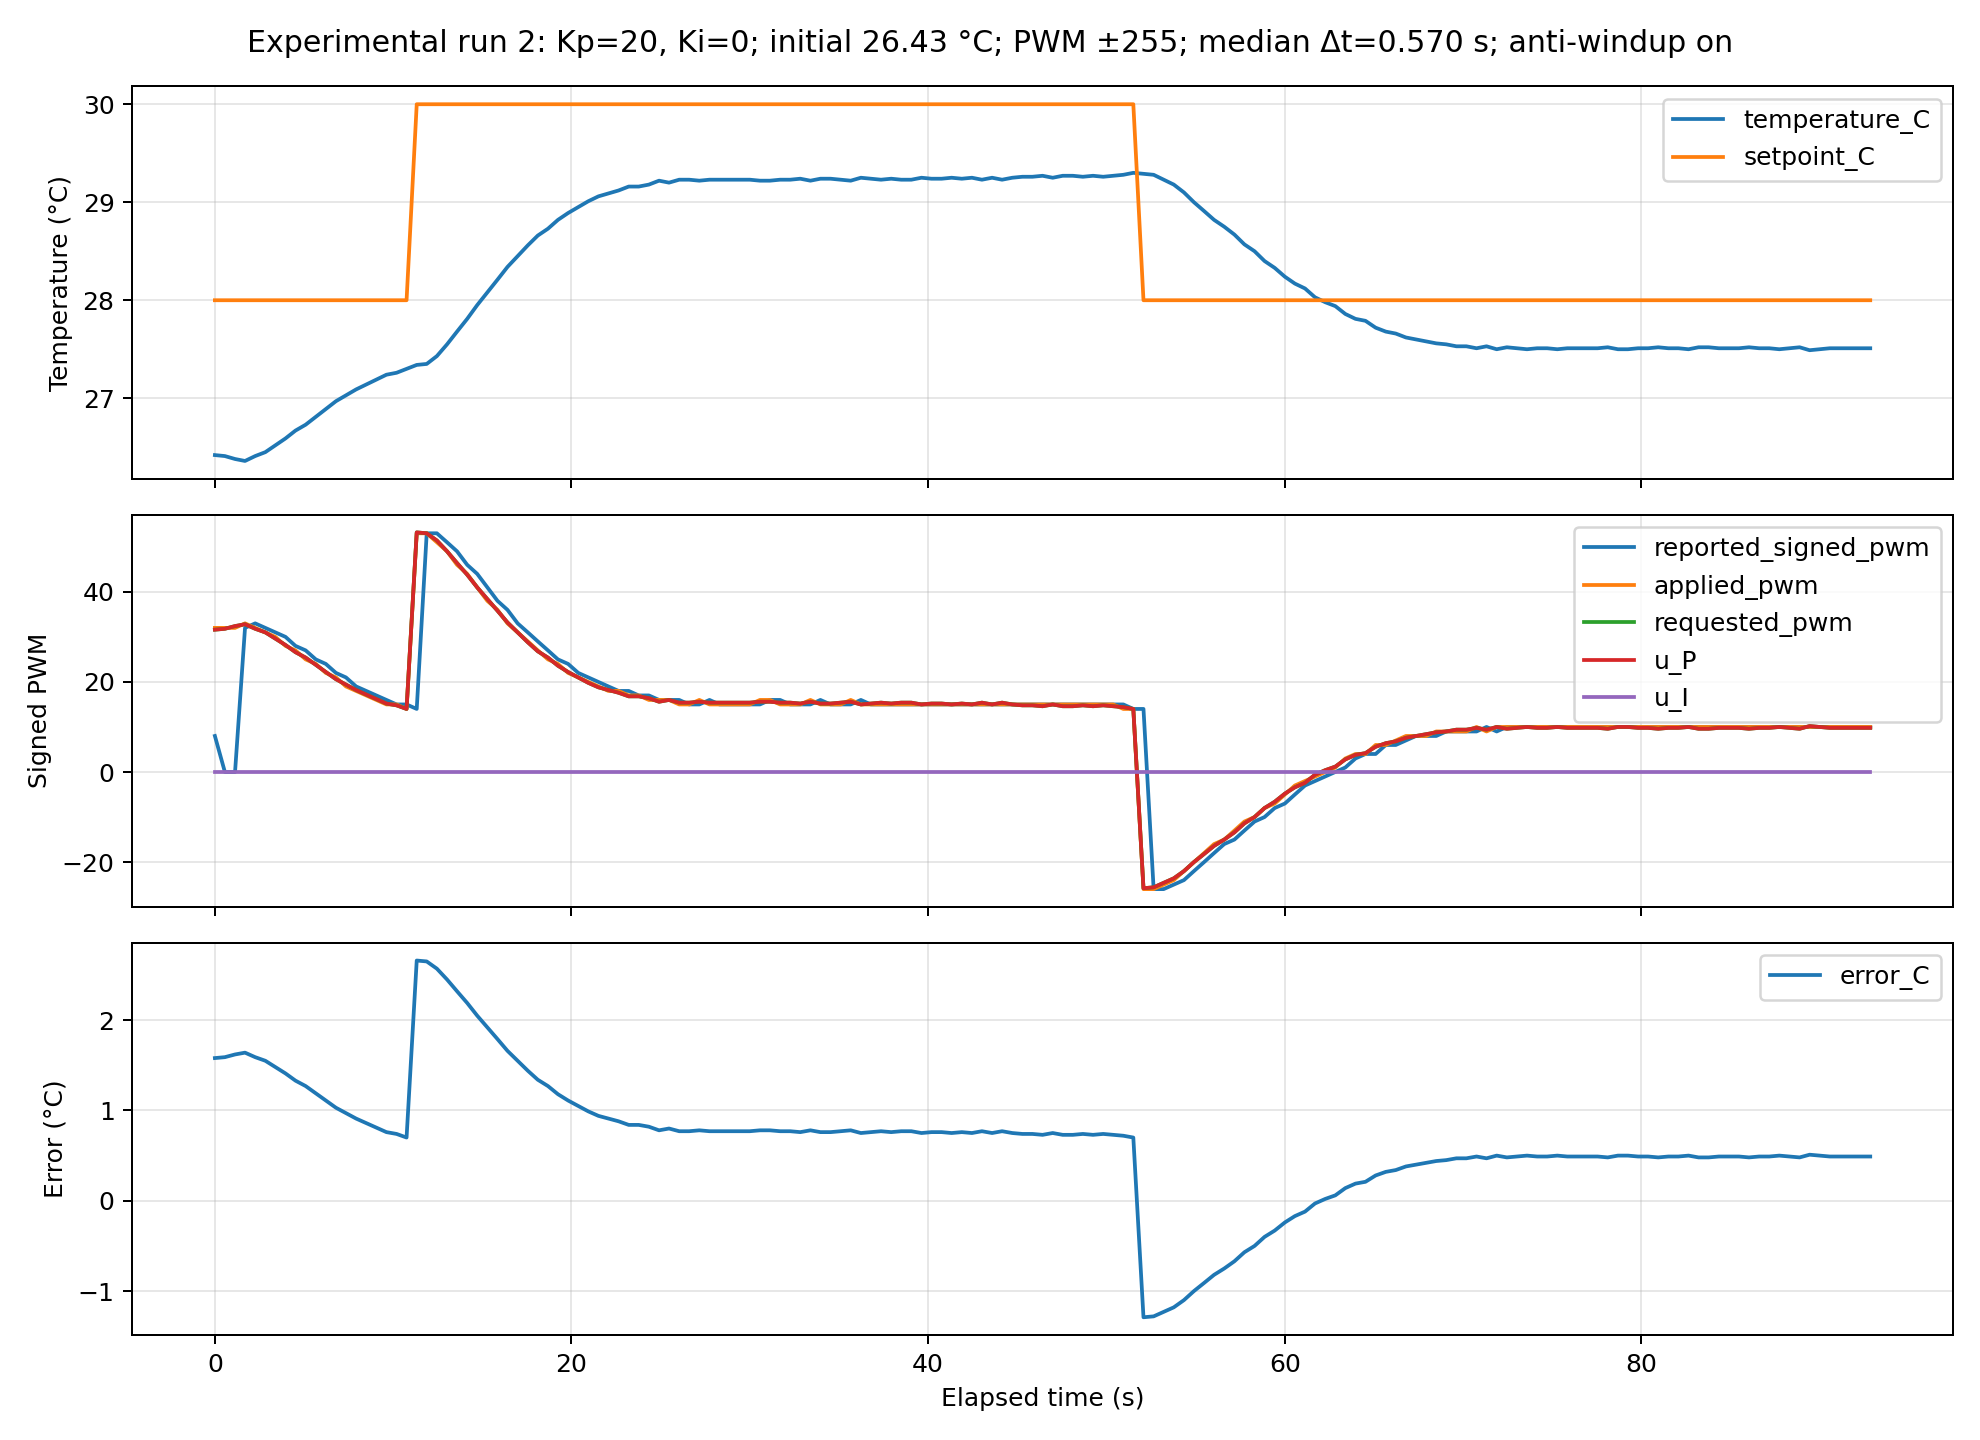
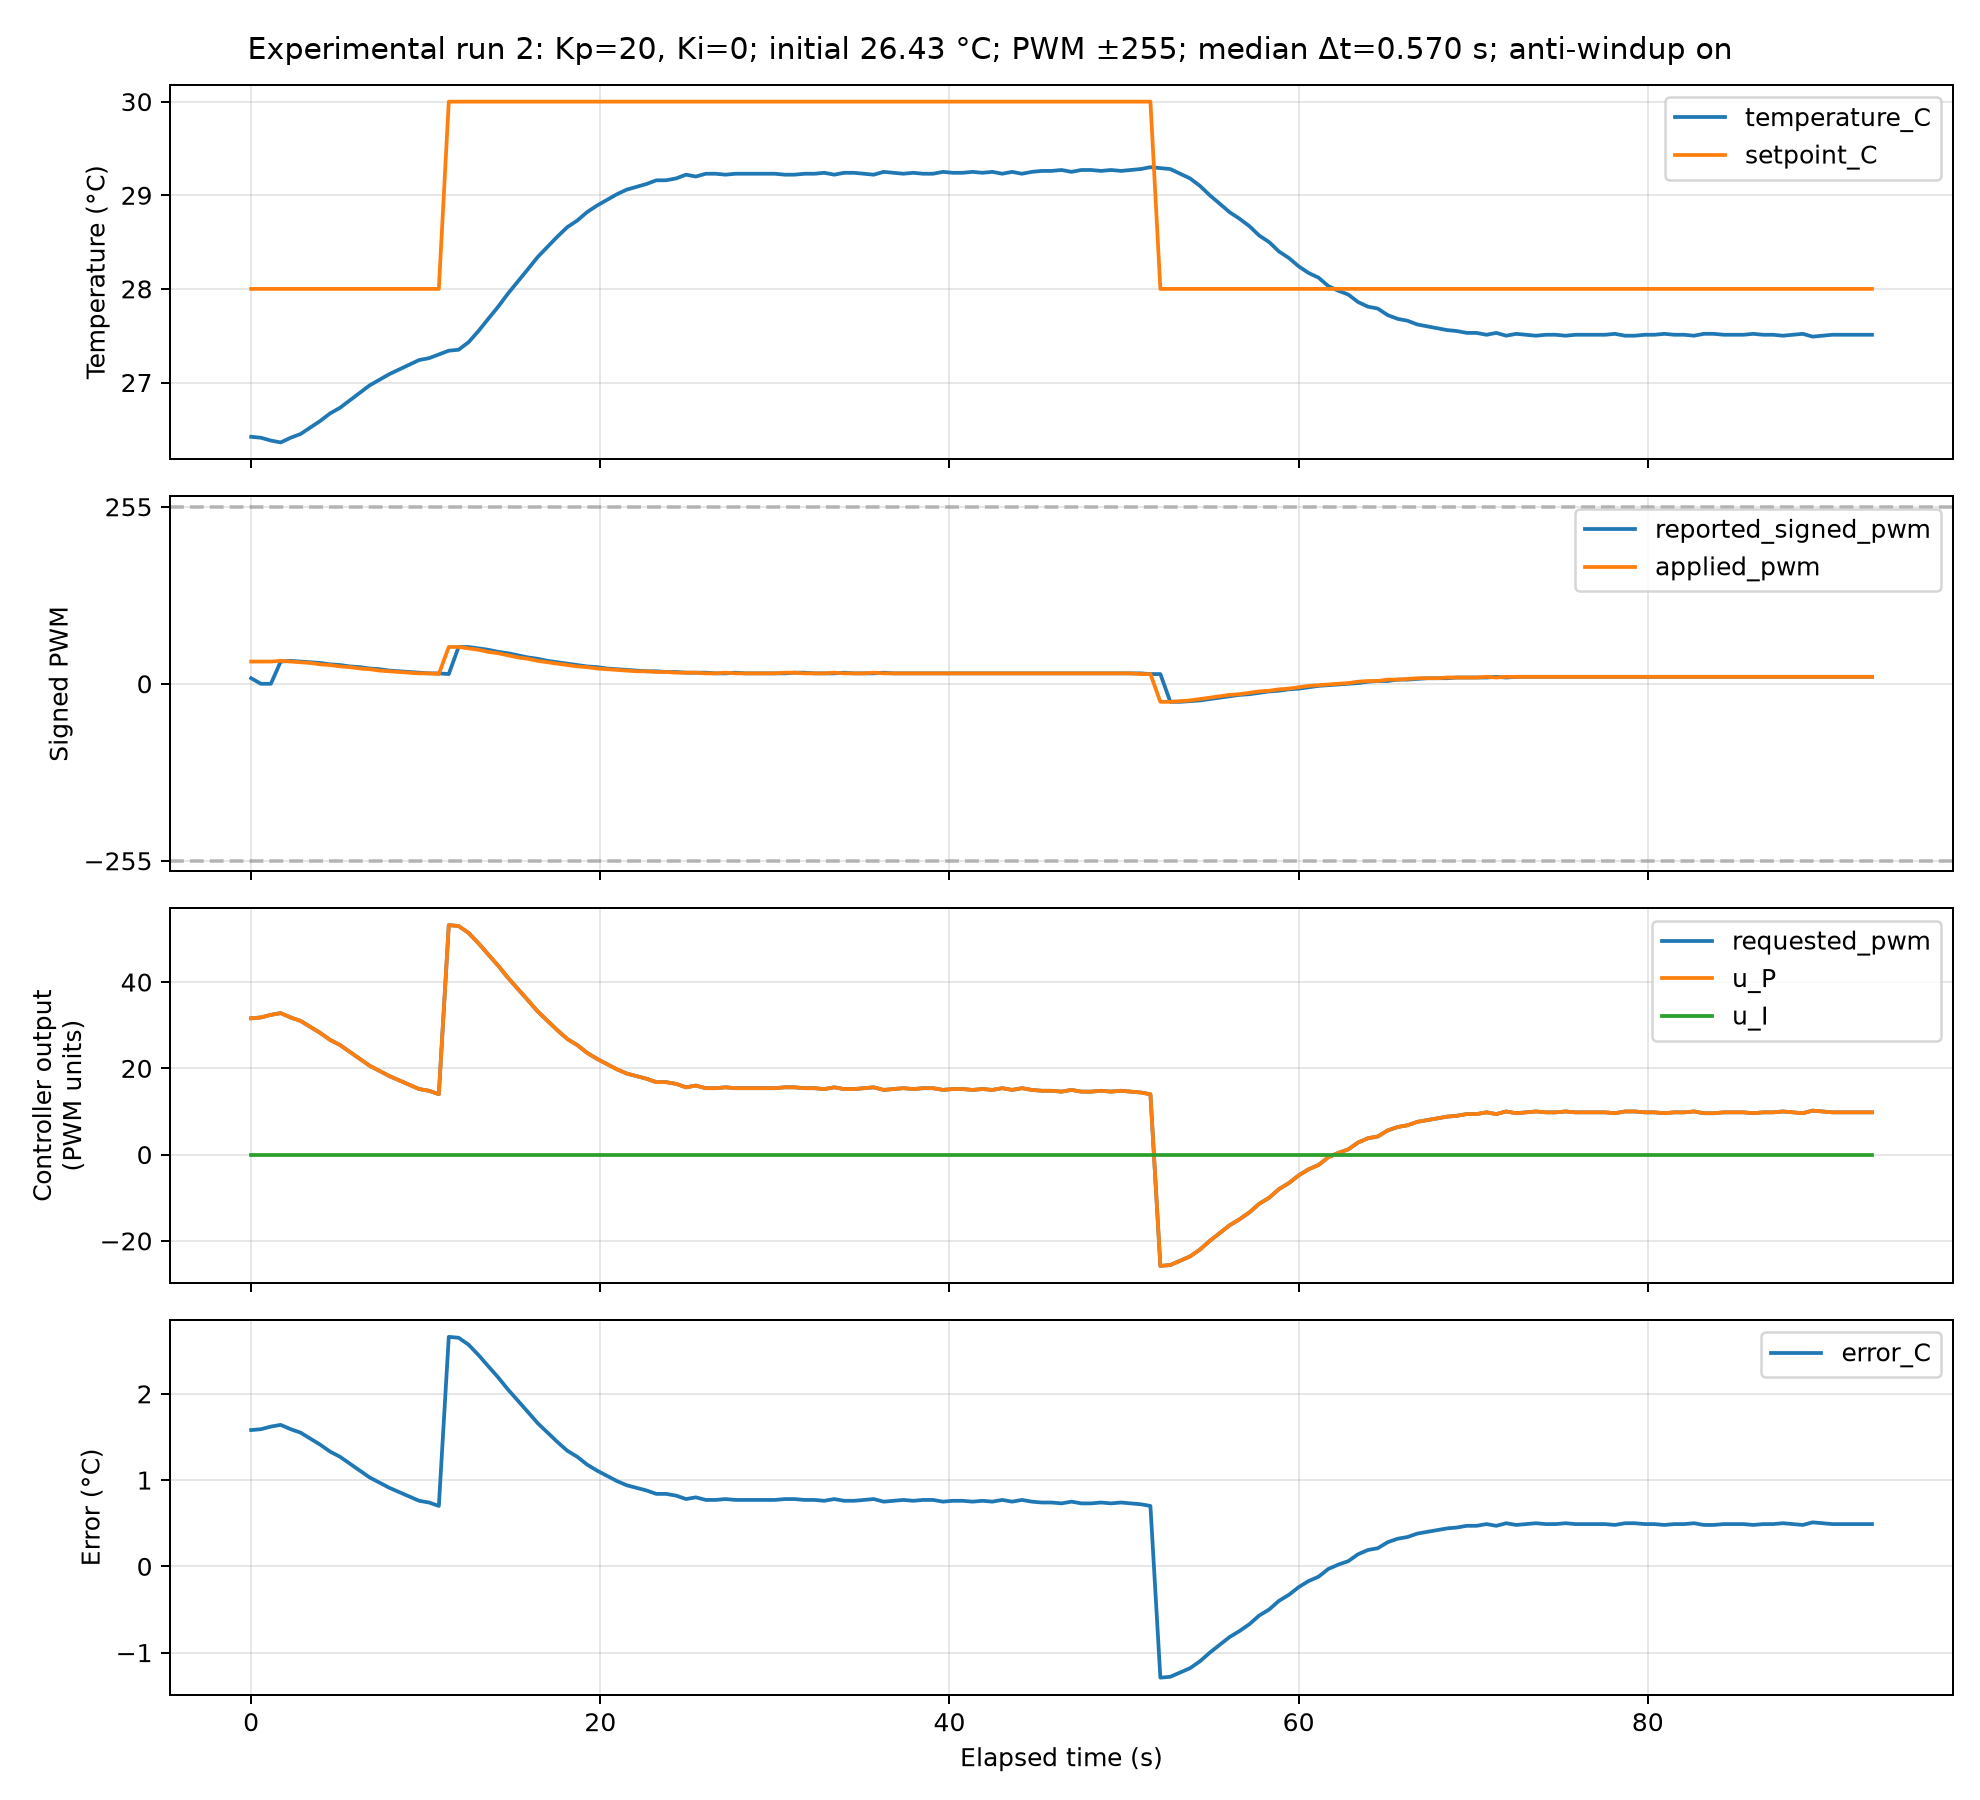
Finalized module part 7 data with saturation re runs

diff --git a/code/module6/Part1/P7_experimental_goldilocks/auto_goldilocks.py b/code/module6/Part1/P7_experimental_goldilocks/auto_goldilocks.py
@@ -6,18 +6,20 @@ from pathlib import Path
 import sys
 import time
 
-from pi_control_gui import PIControlGUI, QtCore, QtWidgets, HERE
+from PHYS39A_instrumentation.code.module6.Part1.P7_experimental_goldilocks.pi_control_gui import PIControlGUI, QtCore, QtWidgets, HERE
 
-GAINS=[('P-only',5,0),('P-only',20,0),('P-only',40,0),
+GAINS=[('P-only',5,0),('P-only',20,0),('P-only',1000,0),
        ('PI',16,.1),('PI',16,.5),('PI',16,2)]
 
 
 class AutoGUI(PIControlGUI):
-    def __init__(self,port=None):
+    def __init__(self,port=None,run=None,kp=None):
         self.auto_active=False
         self.transitioning=False
         self.stage='Waiting for telemetry'
-        self.run_index=0
+        self.run_index=0 if run is None else run-1
+        self.single_run=run
+        self.kp_override=kp
         self.samples=deque()
         self.selected_logs=[]
         self.saturation_started=None
@@ -47,6 +49,7 @@ class AutoGUI(PIControlGUI):
         try:
             self.stop_control('Between automatic runs')
             mode,kp,ki=GAINS[self.run_index]
+            if self.kp_override is not None: kp=self.kp_override
             self.run_number.setValue(self.run_index+1)
             self.mode.setCurrentText(mode)
             self.kp.setValue(kp); self.ki.setValue(ki)
@@ -122,9 +125,14 @@ class AutoGUI(PIControlGUI):
             self.stop_control('Automatic run complete')
             self.transitioning=False
             self.run_index+=1
-            if self.run_index<6: self.start_run()
+            if self.run_index<6 and self.single_run is None: self.start_run()
             else:
                 self.auto_active=False
+                if self.single_run is not None:
+                    self.progress.setText('Selected run complete — PWM zero. Close window when ready.')
+                    print(f'AUTO COMPLETE: {self.selected_logs[-1]}',flush=True)
+                    QtCore.QTimer.singleShot(1000,self.close)
+                    return
                 manifest=HERE/'data'/'screening_selected_logs.json'
                 manifest.write_text(json.dumps(self.selected_logs,indent=2)+'\n')
                 self.progress.setText('Six short screening runs complete — PWM zero. Responses may not have settled.')
@@ -133,7 +141,11 @@ class AutoGUI(PIControlGUI):
 
 if __name__=='__main__':
     parser=argparse.ArgumentParser(description=__doc__); parser.add_argument('--port')
+    parser.add_argument('--run',type=int,choices=range(1,7),help='Repeat only this run')
+    parser.add_argument('--kp',type=float,help='Override Kp for a selected run (0–1000)')
     args=parser.parse_args()
+    if args.kp is not None and (args.run is None or not 0<=args.kp<=1000):
+        parser.error('--kp requires --run and a value from 0 to 1000')
     app=QtWidgets.QApplication(sys.argv)
-    gui=AutoGUI(args.port); gui.show()
+    gui=AutoGUI(args.port,args.run,args.kp); gui.show()
     sys.exit(app.exec())

diff --git a/code/module6/Part1/P7_experimental_goldilocks/plot_goldilocks.py b/code/module6/Part1/P7_experimental_goldilocks/plot_goldilocks.py
@@ -33,6 +33,8 @@ def main():
     parser=argparse.ArgumentParser(description=__doc__)
     parser.add_argument('logs',type=Path,nargs=6,help='Selected logs in run 1–6 order')
     parser.add_argument('--output',type=Path,default=Path(__file__).resolve().parent/'results')
+    parser.add_argument('--allow-mixed-pi-kp',action='store_true',
+                        help='Plot PI reruns with different Kp; these do not isolate the effect of Ki')
     args=parser.parse_args()
     datasets=[load(p,i) for i,p in enumerate(args.logs,1)]
     if len({targets for _,targets in datasets})!=1: raise ValueError('All six runs must use the same two setpoints')
@@ -40,16 +42,22 @@ def main():
     kp=[float(rows[0]['kp_pwm_per_C']) for rows,_ in datasets]
     ki=[float(rows[0]['ki_pwm_per_C_s']) for rows,_ in datasets]
     if not kp[0]<kp[1]<kp[2]: raise ValueError('P gains must increase from low to high')
-    if not kp[3]==kp[4]==kp[5] or not 0<kp[3]<kp[1]: raise ValueError('PI Kp must be fixed below intermediate P Kp')
+    if args.allow_mixed_pi_kp:
+        if not all(np.isfinite(k) and k>0 for k in kp[3:]): raise ValueError('PI Kp must be positive and finite')
+        print('PI Kp comparison check waived: differences cannot be attributed to Ki alone.')
+    elif not kp[3]==kp[4]==kp[5] or not 0<kp[3]<kp[1]: raise ValueError('PI Kp must be fixed below intermediate P Kp')
     if not 0<ki[3]<ki[4]<ki[5]: raise ValueError('PI Ki must increase from low to high')
     args.output.mkdir(exist_ok=True,parents=True)
     for number,(rows,_) in enumerate(datasets,1):
         t=np.array([float(r['arduino_s']) for r in rows]); t-=t[0]
-        fig,axes=plt.subplots(3,1,figsize=(11,8),sharex=True)
-        for ax,keys in zip(axes,[['temperature_C','setpoint_C'],['reported_signed_pwm','applied_pwm','requested_pwm','u_P','u_I'],['error_C']]):
+        fig,axes=plt.subplots(4,1,figsize=(11,10),sharex=True)
+        for ax,keys in zip(axes,[['temperature_C','setpoint_C'],['reported_signed_pwm','applied_pwm'],['requested_pwm','u_P','u_I'],['error_C']]):
             for key in keys: ax.plot(t,[float(r[key]) for r in rows],label=key)
             ax.legend(); ax.grid(alpha=.3)
-        for ax,label in zip(axes,['Temperature (°C)','Signed PWM','Error (°C)']): ax.set_ylabel(label)
+        for ax,label in zip(axes,['Temperature (°C)','Signed PWM','Controller output\n(PWM units)','Error (°C)']): ax.set_ylabel(label)
+        axes[1].set_ylim(-270,270)
+        axes[1].set_yticks([-255,0,255])
+        for boundary in (-255,255): axes[1].axhline(boundary,color='gray',linestyle='--',alpha=.5)
         axes[-1].set_xlabel('Elapsed time (s)')
         interval=np.median([float(r['dt_s']) for r in rows])
         fig.suptitle(f'Experimental run {number}: Kp={kp[number-1]:g}, Ki={ki[number-1]:g}; '

diff --git a/code/module6/Part1/P7_experimental_goldilocks/pi_control_gui.py b/code/module6/Part1/P7_experimental_goldilocks/pi_control_gui.py
@@ -8,9 +8,9 @@ import time
 import argparse
 
 HERE=Path(__file__).resolve().parent
-sys.path.insert(0,str(HERE.parents[3]/'module5/P1_P-only_control'))
+sys.path.insert(0,str(HERE.parents[2]/'module5/P1_P-only_control'))
 from p_control_gui import PControlGUI, QtWidgets, QtCore, serial, STALE_SECONDS, WINDOW_SECONDS
-from pi_logic import PIController
+from PHYS39A_instrumentation.code.module6.Part1.P7_experimental_goldilocks.pi_logic import PIController
 
 FIELDS=['elapsed_s','arduino_s','temperature_C','setpoint_C','kp_pwm_per_C',
         'ki_pwm_per_C_s','dt_s','error_C','u_P','u_I','requested_pwm','applied_pwm',
@@ -33,6 +33,7 @@ class PIControlGUI(PControlGUI):
 
     def build_ui(self):
         super().build_ui()
+        self.kp.setMaximum(1000)
         self.mode.addItem('PI')
         panel=QtWidgets.QWidget(); grid=QtWidgets.QGridLayout(panel)
         self.ki=QtWidgets.QDoubleSpinBox(); self.ki.setDecimals(4)

diff --git a/code/module6/Part1/P7_experimental_goldilocks/PART7_RESULTS.md b/code/module6/Part1/P7_experimental_goldilocks/PART7_RESULTS.md
@@ -20,19 +20,25 @@ End temperatures below average each step's final 5 s; **full settling is unconfi
 |---|---|---:|---:|---:|---:|
 | 1 | P | 5 | 0 | 27.36 °C | 26.44 °C |
 | 2 | P | 20 | 0 | 29.27 °C | 27.51 °C |
-| 3 | P | 40 | 0 | 29.63 °C | 27.73 °C |
+| 3 | P | 1000 | 0 | 30.24 °C | 28.25 °C |
 | 4 | PI | 16 | 0.1 | 29.33 °C | 27.63 °C |
 | 5 | PI | 16 | 0.5 | 29.94 °C | 27.84 °C |
-| 6 | PI | 16 | 2 | 29.94 °C | 27.91 °C |
+| 6 | PI | 1000 | 2 | 30.32 °C | 28.22 °C |
 
 Kp: PWM/°C. Ki: PWM/(°C·s).
 
+Run 3 was repeated on **October 19, 2026** at **Kp = 1000, Ki = 0**; Run 6 was also repeated on October 19 at **Kp = 1000, Ki = 2**. Runs 1, 2, 4, and 5 retain their October 14 measurements. The numeric gain has no physical maximum; 1000 is the selected high-gain setting, while the actuator remains limited to ±255 PWM. Baseline and step transitions follow host timers, so measured stages can be about 1 s longer than nominal. Starting conditions differ, and the 10 s baseline does not establish equilibrium.
+
+Selected Run 3: [Kp = 1000 recording](data/screening_run3_20261019_093931_013605.csv). Earlier Run 3 recordings at [Kp = 200](data/screening_run3_20261019_093717_561506.csv) and [Kp = 40](data/screening_run3_20261014_105335_877556.csv) are preserved. The Kp = 200 trial peaked at 30.91 °C and reached 27.43 °C on the downward step; 22/164 commands saturated.
+
+Selected Run 6: [Kp = 1000, Ki = 2 recording](data/screening_run6_20261019_094847_056154.csv); the [original Kp = 16, Ki = 2 recording](data/screening_run6_20261014_105814_945122.csv) is preserved.
+
 ## Answers
 
-- **Increasing Kp:** faster P responses and smaller errors. High-gain P did not show clear overshoot or ringing.
-- **Increasing Ki:** faster integral correction, then more overshoot. Run 5 was the best observed PI compromise. Run 6 overshot by **0.76 °C** upward and undershot by **0.86 °C** downward.
+- **Increasing Kp:** intermediate gain reduced the P error; the new **Kp = 1000** Run 3 showed repeated oscillations about the targets, with **1.43 °C upward overshoot** (peak **31.43 °C**) and **0.70 °C downward undershoot** (minimum **27.30 °C**). Frequent output clipping makes this a nonlinear high-gain response; these short runs do not establish long-term stability.
+- **Increasing Ki:** Runs 4 and 5 retain Kp = 16, with faster integral correction at Ki = 0.5. Run 5 remains the best observed compromise among the original matched-Kp PI trials. The original Run 6 (Kp = 16, Ki = 2) overshot by **0.76 °C** upward and undershot by **0.86 °C** downward. The selected rerun changes Kp to **1000**, so its response cannot be attributed to Ki alone: it shows oscillations with **1.32 °C upward overshoot** (peak **31.32 °C**) and **0.73 °C downward undershoot** (minimum **27.27 °C**).
 - **Integral contribution:** in Run 5's upward step, I grew from **3.52 to 15.46 PWM**. Final recorded error was **0.05 °C**, versus **0.70 °C** for Run 2. These are end-of-step errors, not verified steady-state errors.
-- **Saturation:** none. Maximum absolute applied PWM was **90**, below **255**. Overshoot does not mean saturation.
+- **Saturation:** the new Run 3 reached **±255 PWM**, with **133/163 recorded commands** at the limit. At Kp = 1000, errors of at least **0.255 °C** saturate the output. Run 6 also reached **±255 PWM**, with **132/164 recorded commands** at the limit. Runs 1, 2, 4, and 5 remain below saturation (maximum absolute PWM **53**).
 
 Starting temperatures differed and were recorded:
 
@@ -40,37 +46,37 @@ Starting temperatures differed and were recorded:
 |---|---:|---:|
 | 1 | 25.13 | 27.41 |
 | 2 | 27.34 | 29.29 |
-| 3 | 27.75 | 29.65 |
+| 3 | 27.36 | 30.45 |
 | 4 | 27.41 | 29.34 |
 | 5 | 27.46 | 29.95 |
-| 6 | 27.59 | 29.92 |
+| 6 | 28.90 | 29.66 |
 
 ## Figures
 
-Each figure shows measured temperature, setpoint, signed PWM, P, I, and error.
+Each figure shows measured temperature and setpoint, applied and reported signed PWM (limited to ±255), unclamped controller output and P/I contributions in a separate panel (PWM units), and error. The controller calculations may exceed ±255; they are not the applied PWM.
 
-**Run 1 — Low-gain P**
+**Run 1 — Low-gain P, Kp = 5, Ki = 0**
 
 ![Run 1](results/run1.png)
 
-**Run 2 — Intermediate-gain P**
+**Run 2 — Intermediate-gain P, Kp = 20, Ki = 0**
 
 ![Run 2](results/run2.png)
 
-**Run 3 — High-gain P**
+**Run 3 — High-gain P, Kp = 1000, Ki = 0**
 
 ![Run 3](results/run3.png)
 
-**Run 4 — Low-Ki PI**
+**Run 4 — Low-Ki PI, Kp = 16, Ki = 0.1**
 
 ![Run 4](results/run4.png)
 
-**Run 5 — Intermediate-Ki PI**
+**Run 5 — Intermediate-Ki PI, Kp = 16, Ki = 0.5**
 
 ![Run 5](results/run5.png)
 
-**Run 6 — High-Ki PI**
+**Run 6 — High-gain PI, Kp = 1000, Ki = 2**
 
 ![Run 6](results/run6.png)
 
-[Raw recordings](data/) · [Controller](pi_logic.py) · [GUI](pi_control_gui.py) · [Plotter](plot_goldilocks.py)
+[Raw recordings](data/) · [Controller](pi_logic.py) · [GUI](pi_control_gui.py) · [Plotter](plot_goldilocks.py) (use `--allow-mixed-pi-kp` for the selected runs)
